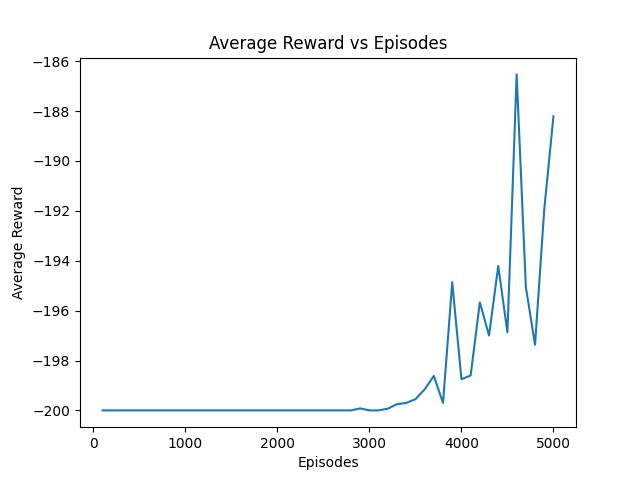
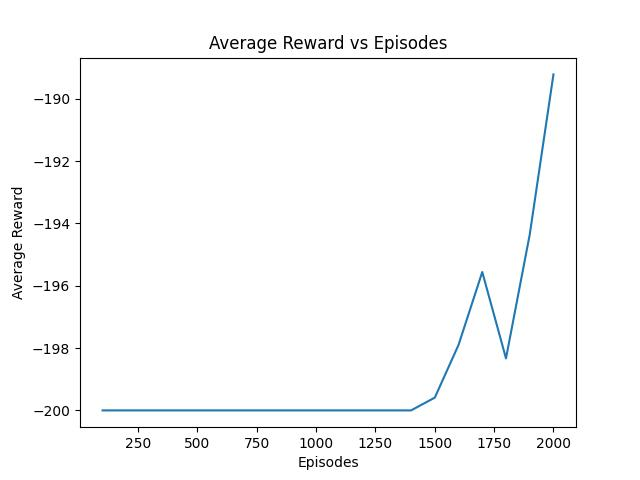
a

diff --git a/Mountaincar/mountaincartest.py b/Mountaincar/mountaincartest.py
@@ -92,7 +92,7 @@ def QLearning(env, learning, discount, epsilon, min_eps, episodes):
     return ave_reward_list
 
 # Run Q-learning algorithm
-rewards = QLearning(env, 0.2, 0.9, 0.8, 0, 5000)
+rewards = QLearning(env, 0.2, 0.9, 0.8, 0, 2000)
 
 # Plot Rewards
 plt.plot(100*(np.arange(len(rewards)) + 1), rewards)
